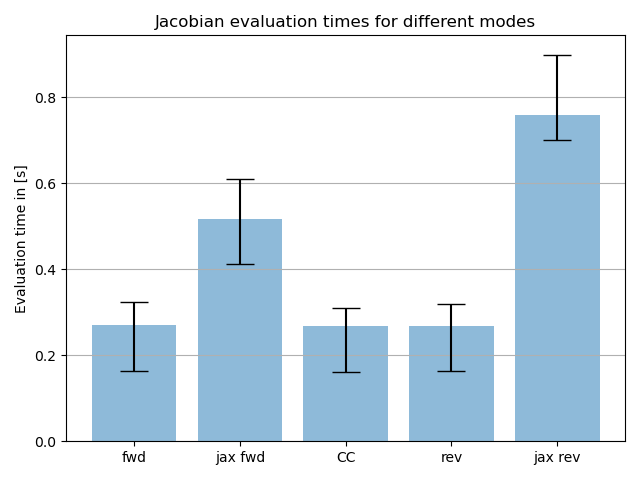
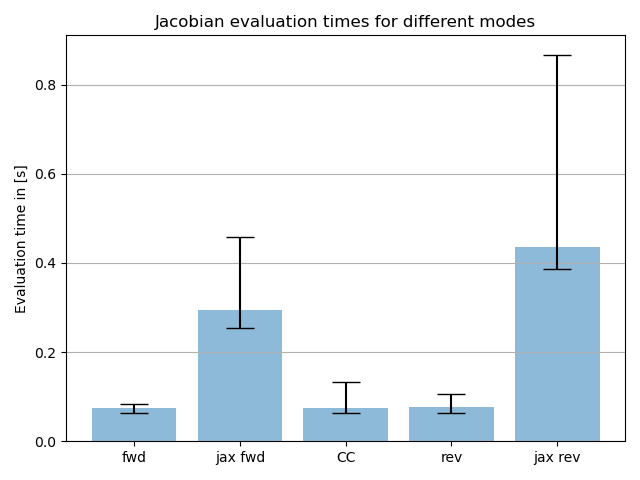
Minor changes.

diff --git a/src/graphax/interpreter/to_jaxpr.py b/src/graphax/interpreter/to_jaxpr.py
@@ -168,14 +168,14 @@ def reduce_sum_elemental_rule(primals, **params):
     primal = primals[0]
     axes = params["axes"]
     if axes is None:
-        axes = tuple(range(len(primal.shape)))
+        axes = tuple(range(primal.ndim))
         new_out_dims.append(DenseDimension(0, 1, 0))
     elif type(axes) is int:
         axes = (axes,)
     new_out_dims, new_primal_dims = [], []
     _shape = []
     
-    l = len(val_out.aval.shape)
+    l = val_out.aval.ndim
     count = 0
     for i, size in enumerate(primal.aval.shape):
         if i in axes:
@@ -200,14 +200,14 @@ def reduce_max_elemental_rule(primals, **params):
     axes = params["axes"]
     
     if axes is None:
-        axes = tuple(range(len(primal.shape)))
+        axes = tuple(range(primal.ndim))
         new_out_dims.append(DenseDimension(0, 1, 0, True))
     elif type(axes) is int:
         axes = (axes,)
     new_out_dims, new_primal_dims = [], []
     _shape = []
     
-    l = len(val_out.aval.shape)
+    l = val_out.aval.ndim
     count = 0
     for i, size in enumerate(primal.aval.shape):
         if i in axes:
@@ -236,7 +236,7 @@ def dot_general_elemental_rule(primals, **params):
     rhs_contracting_dims = dimension_numbers[1]
     
     # TODO properly treat the transpose
-    if len(rhs.aval.shape) > 1:
+    if rhs.aval.ndim > 1:
         transpose_rhs = rhs.T
         # print(lhs, transpose_rhs)
         # TODO this needs generalization to higher-dimensional tensors
@@ -257,7 +257,7 @@ def dot_general_elemental_rule(primals, **params):
     
     i = 0
     for l, ld in enumerate(lhs_shape):
-        _l = l + len(val_out.aval.shape)
+        _l = l + val_out.aval.ndim
         if l in lhs_contracting_dims:
             # Contracting dimension
             dim = transpose_rhs_dims[i] # TODO take account of the transpose
@@ -324,7 +324,7 @@ def stop_gradient_elemental_rule(primals, **params):
     primal = primals[0]    
     new_out_dims, new_primal_dims = [], []
 
-    l = len(primal.shape)
+    l = primal.ndim
     for i, size in enumerate(primal.shape):
         new_out_dims.append(SparseDimension(i, size, i, i+l))
         new_primal_dims.append(SparseDimension(i+l, size, i, i))

diff --git a/tests/interpreter/to_jaxpr_test.py b/tests/interpreter/to_jaxpr_test.py
@@ -27,8 +27,8 @@ print(revres)
 
 print(tree_allclose(veres, revres))
 
-xs = [jnp.ones(())*0.01]*20
-argnums = list(range(20))
+xs = [jnp.ones(())*0.01]*15
+argnums = list(range(15))
 # print(jax.make_jaxpr(g)(*xs))
 jac_rev_g = jax.jit(jacve(g, order="rev", argnums=argnums))
 jax_rev_g = jax.jit(jax.jacrev(g, argnums=argnums))
@@ -39,8 +39,8 @@ print(len(jax.make_jaxpr(jacve(g, order="rev", argnums=argnums))(*xs).eqns))
 revres = jax_rev_g(*xs)
 veres = jac_rev_g(*xs)
 
-# for rev, ve in zip(revres, veres):
-#     print(rev, ve)
+for rev, ve in zip(revres, veres):
+    print(rev, ve)
 
 print(tree_allclose(veres, revres))
 

diff --git a/tests/interpreter/performance_measurements.py b/tests/interpreter/performance_measurements.py
@@ -143,9 +143,9 @@ def measure_G():
     print("cc", ops)
     
         
-    samplesize = 500
-    duration = 1000
-    xs = [jnp.ones((20,))]*15
+    samplesize = 100
+    duration = 2
+    xs = [jnp.ones((20,20))]*15
     print(len(jax.make_jaxpr(gx.jacve(g, order="rev", argnums=list(range(15))))(*xs).eqns))
     print(len(jax.make_jaxpr(gx.jacve(g, order=order, argnums=list(range(15))))(*xs).eqns))
     gx.plot_performance(g, xs, order, "./g.png", samplesize=samplesize, loop_duration=duration)
